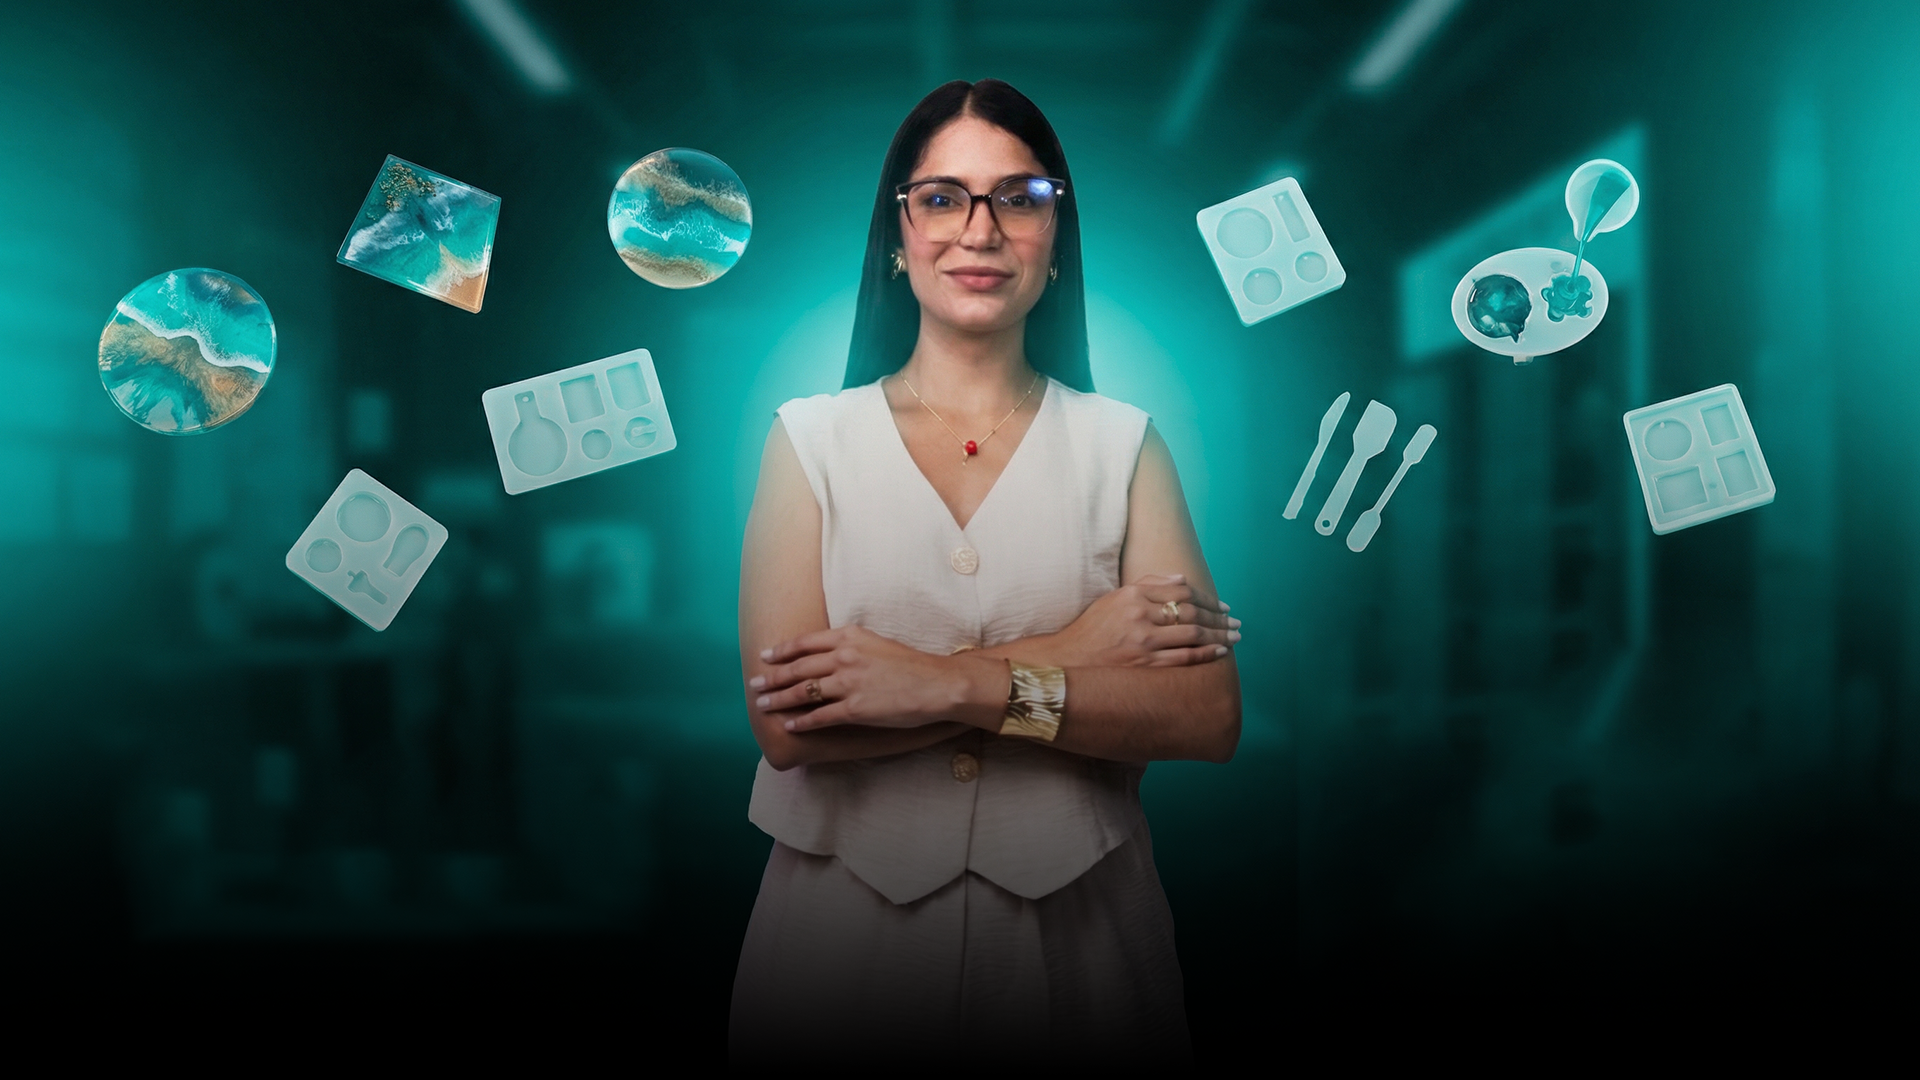
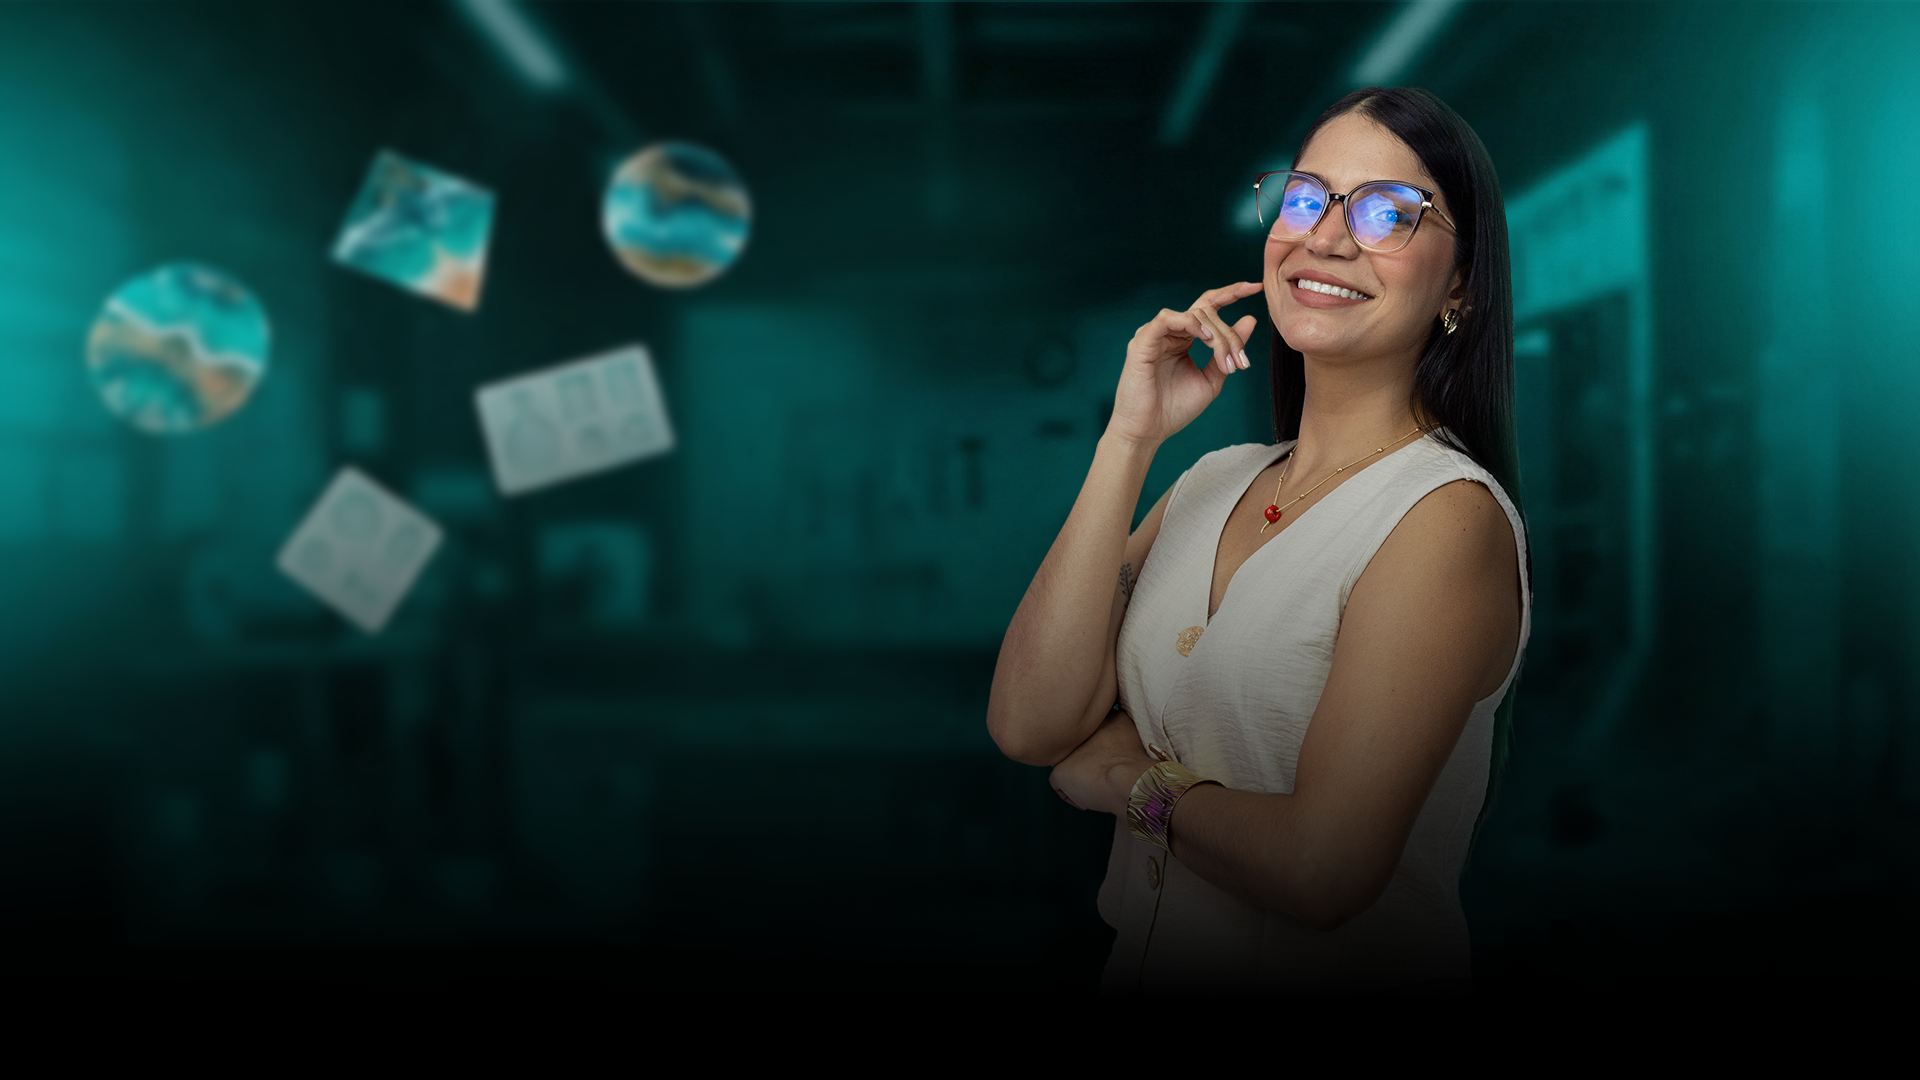
feat: reestructura Hero, fondos responsivos y ajustes de imagen

diff --git a/src/sections/Hero.jsx b/src/sections/Hero.jsx
@@ -4,29 +4,38 @@ import Magnet from '../components/react-bits/Magnet';
 import GradientText from '../components/react-bits/GradientText';
 import { motion } from 'framer-motion';
 import bgHero from '../assets/4.png';
+import bgMobile from '../assets/6.png';
+import modelo1 from '../assets/modelo1.png';
 import { Zap } from 'lucide-react';
 
 const Hero = () => {
     return (
-        <section className="relative w-full min-h-screen flex items-end md:items-center justify-center px-4 md:px-20 overflow-hidden pt-40 pb-24 md:pt-20 md:pb-10 bg-black">
-            {/* Imagen de fondo 3.png con un overlay que equilibra la luz */}
-            <div className="absolute inset-0 z-0 select-none">
+        <section className="relative w-full min-h-screen flex items-center md:items-end justify-center px-4 md:px-20 pt-40 pb-24 md:pt-20 md:pb-0 bg-black">
+            {/* Imagen de fondo con overlay - con overflow-hidden para contener el background */}
+            <div className="absolute inset-0 z-0 select-none overflow-hidden">
+                {/* Imagen para Desktop */}
                 <img
                     src={bgHero}
-                    alt="Background"
-                    className="w-full h-full object-cover opacity-40 scale-105"
+                    alt="Background Desktop"
+                    className="hidden md:block w-full h-full object-cover opacity-100 scale-105"
                 />
-                <div className="absolute inset-0 bg-gradient-to-b from-black/60 via-transparent to-black" />
-                <div className="absolute inset-0 bg-primary/5" />
+                {/* Imagen para Mobile/Tablet */}
+                <img
+                    src={bgMobile}
+                    alt="Background Mobile"
+                    className="block md:hidden w-full h-full object-cover opacity-100 scale-105"
+                />
+                <div className="absolute inset-0 bg-gradient-to-r from-black via-black/40 to-transparent hidden md:block" />
+                <div className="absolute inset-0 bg-gradient-to-b from-black/60 via-transparent to-black md:hidden" />
             </div>
 
-            <div className="relative z-10 max-w-7xl w-full flex flex-col items-center justify-center text-center">
+            <div className="relative z-10 max-w-7xl w-full flex flex-col md:flex-row items-center md:items-end justify-between gap-12 h-full">
 
-                {/* Contenido Centrado sobre el fondo */}
-                <div className="max-w-4xl flex flex-col items-center">
+                {/* Bloque Izquierdo: Información */}
+                <div className="flex-1 flex flex-col items-center md:items-start text-center md:text-left max-w-2xl md:mb-48">
                     <motion.div
-                        initial={{ opacity: 0, y: -20 }}
-                        animate={{ opacity: 1, y: 0 }}
+                        initial={{ opacity: 0, x: -20 }}
+                        animate={{ opacity: 1, x: 0 }}
                         className="bg-primary/10 border border-primary/30 px-5 py-2 rounded-full text-primary text-xs font-black mb-8 tracking-[0.3em] uppercase inline-flex items-center gap-2"
                     >
                         <span className="relative flex h-2 w-2">
@@ -36,17 +45,17 @@ const Hero = () => {
                         Inscripciones Abiertas - 2026
                     </motion.div>
 
-                    <div className="mb-10 w-full flex flex-col items-center">
+                    <div className="mb-8 w-full">
                         <SplitText
                             text="DOMINA EL ARTE DE LA RESINA"
-                            className="text-2xl md:text-3xl font-black text-white leading-[0.85] tracking-tighter mb-6"
+                            className="text-2xl md:text-3xl lg:text-4xl font-black text-white leading-[0.85] tracking-tighter mb-4"
                         />
-                        <div className="h-1 w-32 bg-primary mb-8 shadow-[0_0_15px_rgba(0,255,187,0.5)]" />
+                        <div className="h-1 w-32 bg-primary mb-6 shadow-[0_0_15px_rgba(0,255,187,0.5)] mx-auto md:mx-0" />
                         <GradientText
                             colors={["#ffffff", "#00FFBB", "#00CC96", "#00FFBB", "#ffffff"]}
                             animationSpeed={6}
                             showBorder={false}
-                            className="text-4xl md:text-7xl font-black italic uppercase tracking-tighter"
+                            className="text-4xl md:text-6xl lg:text-8xl font-black italic uppercase tracking-tighter block"
                         >
                             Resina Master Pro
                         </GradientText>
@@ -55,8 +64,8 @@ const Hero = () => {
                     <motion.p
                         initial={{ opacity: 0, y: 20 }}
                         animate={{ opacity: 1, y: 0 }}
-                        transition={{ delay: 0.8 }}
-                        className="text-gray-300 text-xl md:text-3xl max-w-3xl mb-14 leading-relaxed font-bold text-center mx-auto"
+                        transition={{ delay: 0.4 }}
+                        className="text-gray-300 text-lg md:text-xl lg:text-2xl mb-12 leading-relaxed font-bold"
                     >
                         Aprende el método exacto para facturar con piezas exclusivas, <span className="text-white underline decoration-primary decoration-4 underline-offset-8">desde cero</span> y vive de tu pasión creativa.
                     </motion.p>
@@ -74,19 +83,39 @@ const Hero = () => {
                             </motion.button>
                         </Magnet>
 
-                        <div className="flex flex-col items-center text-gray-400">
+                        <div className="flex flex-col items-center md:items-start text-gray-400">
                             <span className="text-white font-bold text-sm uppercase">Próximo Lanzamiento</span>
                             <span className="text-xs tracking-widest font-black">Cupos Muy Limitados</span>
                         </div>
                     </div>
                 </div>
+
+                {/* Bloque Derecho: Imagen del Sujeto (Oculto temporalmente) */}
+                {/*
+                <motion.div
+                    initial={{ opacity: 0, scale: 0.9, x: 50 }}
+                    animate={{ opacity: 1, scale: 1, x: 0 }}
+                    transition={{ duration: 0.8, ease: "easeOut" }}
+                    className="flex-1 relative hidden md:flex justify-end items-end translate-y-16 lg:translate-y-32"
+                >
+                    <div className="relative w-full aspect-[4/5] max-w-2xl md:translate-x-12 lg:translate-x-20">
+                        <div className="absolute inset-0 bg-primary/20 blur-[150px] rounded-full scale-125" />
+
+                        <img
+                            src={modelo1}
+                            alt="Instructor"
+                            className="relative z-10 w-full h-full object-contain object-bottom drop-shadow-[0_20px_60px_rgba(0,255,187,0.4)] scale-110 lg:scale-[1.45] origin-bottom"
+                        />
+                    </div>
+                </motion.div>
+                */}
             </div>
 
             {/* Indicador de scroll */}
             <motion.div
                 initial={{ opacity: 0 }}
                 animate={{ opacity: 1 }}
-                transition={{ delay: 2 }}
+                transition={{ delay: 1.5 }}
                 className="absolute bottom-10 left-1/2 -translate-x-1/2 hidden lg:block z-20"
             >
                 <div className="w-6 h-10 border-2 border-primary/30 rounded-full flex justify-center pt-2">
